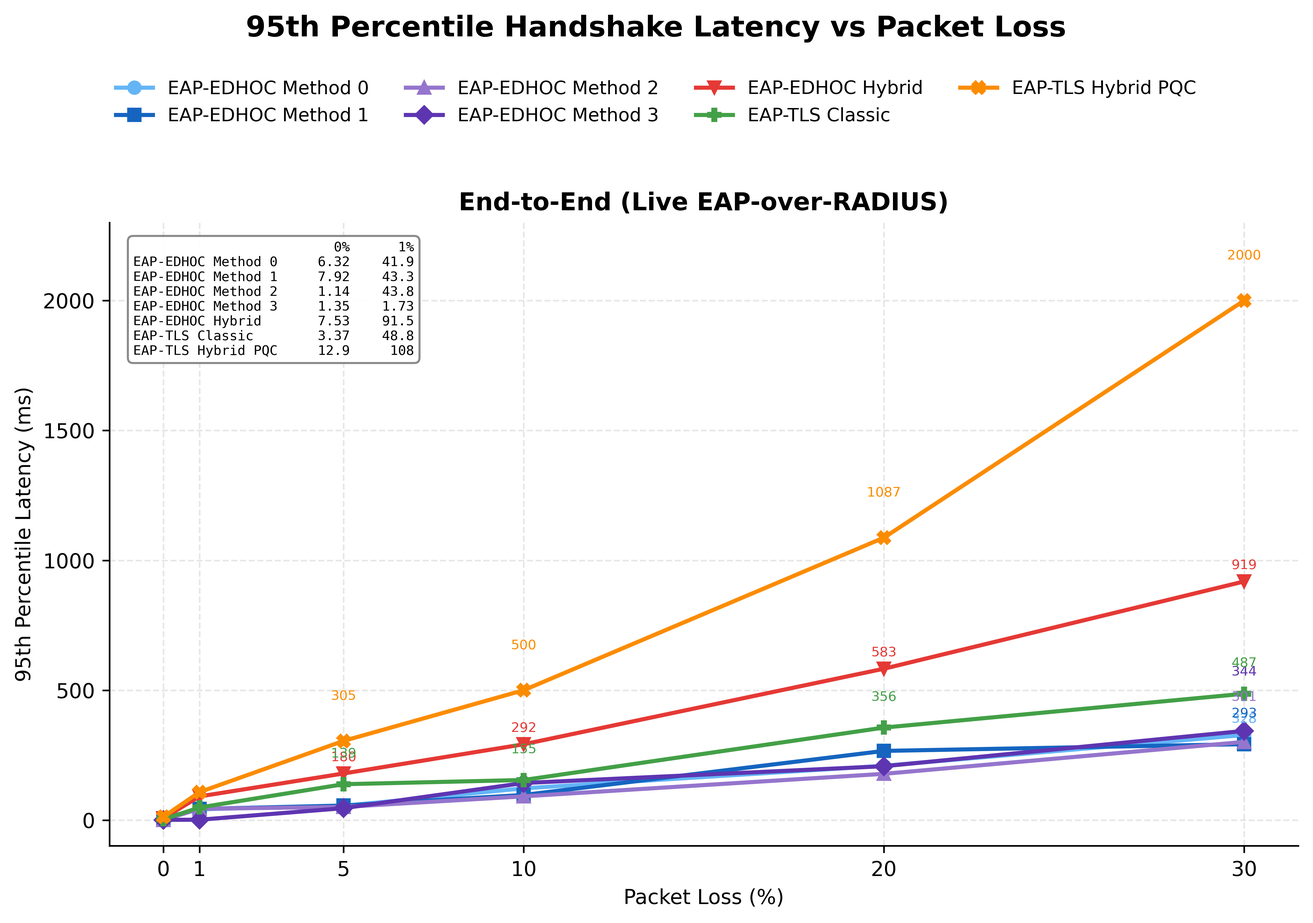
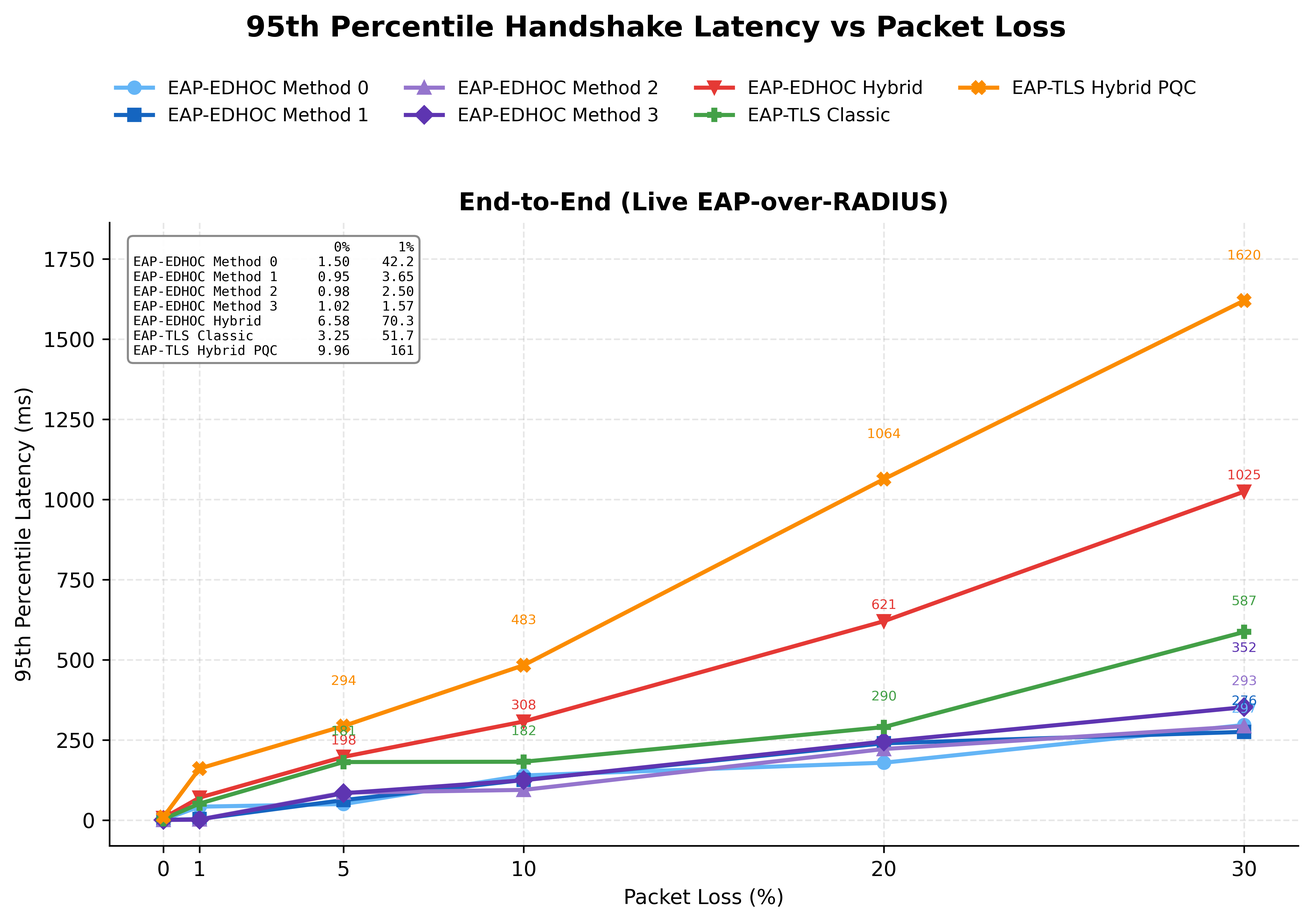
paper/notebook: standard X-Wing, precomputed rotation keys, corrected storage cost
- X-Wing section and Algorithm 1 follow draft-connolly-cfrg-xwing-kem-09
  (SHAKE256 seed expansion, SHA3-256 combiner, test vectors reproduced);
  the next one-time key pair may be generated before the run.
- Computation: 0.869 ms (0.434 per party), now below EAP-TLS Hybrid PQC
  (0.894 ms); in-process 1.167 -> 0.999 ms.
- Live: 6.116 ms mean / 5.752 ms median vs 10.321 / 9.742 ms for
  EAP-TLS Hybrid PQC; RTT table, pair comparison, loss paragraph,
  bootstrap share, discussion and conclusion updated.
- Storage cost corrected from ~0.1 ms to 0.68 ms (interleaved durable vs
  tmpfs); the earlier figure came from non-interleaved runs and strace -c
  CPU time.

diff --git a/symmetry-rev/paper/manuscript.tex b/symmetry-rev/paper/manuscript.tex
@@ -166,7 +166,7 @@ EAP~\cite{RFC3748} defines three roles: the \emph{peer} (the UE), the \emph{auth
 
 \subsection{X-Wing Hybrid KEM}
 \label{sec:prelim-xwing}
-X-Wing~\cite{XWing,XWingDraft} combines X25519 with ML-KEM-768 (FIPS~203)~\cite{FIPS203,CRYSTALS}, following the IETF hybrid terminology~\cite{PQUIP} and the rationale of hybrid KEMs for authenticated key exchange~\cite{BBF+19,TS103744}. The combined secret stays secure as long as \emph{at least one} component is unbroken. Algorithm~\ref{alg:xwing} summarises its three operations. The public key $pk = ek_{\mathrm{PQ}}\,\|\,pk_X$ is $1184+32$ bytes. Encapsulation runs ML-KEM-768 and an ephemeral X25519 exchange and merges both shares with a single SHA3-256 \emph{combiner} that also binds both public shares, which blocks re-encapsulation and mismatch attacks~\cite{CDM24,ADH+22}; decapsulation recomputes the same 32-byte secret.
+X-Wing~\cite{XWing,XWingDraft} combines X25519 with ML-KEM-768 (FIPS~203)~\cite{FIPS203,CRYSTALS}, following the IETF hybrid terminology~\cite{PQUIP} and the rationale of hybrid KEMs for authenticated key exchange~\cite{BBF+19,TS103744}. The combined secret stays secure as long as \emph{at least one} component is unbroken. Algorithm~\ref{alg:xwing} summarises its three operations. The public key $pk = ek_{\mathrm{PQ}}\,\|\,pk_X$ is $1184+32$ bytes. Encapsulation runs ML-KEM-768 and an ephemeral X25519 exchange and merges both shares with a single SHA3-256 \emph{combiner} that also binds both public shares, which blocks re-encapsulation and mismatch attacks~\cite{CDM24,ADH+22}; decapsulation recomputes the same 32-byte secret. We follow the X-Wing specification~\cite{XWingDraft} exactly: the key pair is derived from a 32-byte seed with SHAKE256, and the combiner hashes $ss_{\mathrm{PQ}} \,\|\, ss_{X} \,\|\, pk_{e} \,\|\, pk_{X}$ followed by the 6-byte label \texttt{5c2e2f2f5e5c}. Our implementation reproduces all test vectors of the specification for key generation, encapsulation, and decapsulation. As the specification permits for a key that never leaves its device, each party stores the expanded secret key $dk_{\mathrm{PQ}} \,\|\, sk_X$ and takes $pk_X$ from its own public key during decapsulation instead of recomputing it.
 
 X-Wing is IND-CCA secure under standard assumptions and, by exploiting ML-KEM's ciphertext binding, needs weaker assumptions than generic combiners~\cite{XWing}. Unlike the negotiated combiners of hybrid TLS~1.3~\cite{TLS}, IKEv2~\cite{RFC9370}, or composite ML-KEM~\cite{LAMPS,BBF+19}, it is a fixed instantiation without runtime negotiation, in line with deployed hybrids such as PQXDH~\cite{PQXDH,FG24} and post-quantum Noise~\cite{ADH+22}, and compact enough for COSE/CBOR. Note that a KEM is asymmetric by construction: the encapsulator learns nothing about the decapsulator's long-term key, and only the decapsulator is implicitly authenticated. Section~\ref{sec:symmetry} shows how the protocol compensates for this.
 
@@ -177,7 +177,8 @@ X-Wing is IND-CCA secure under standard assumptions and, by exploiting ML-KEM's 
 {\footnotesize
 \begin{algorithmic}[1]
 \State \textbf{KeyGen():}
-\State \hspace{1em}$(dk_{\mathrm{PQ}}, ek_{\mathrm{PQ}}) \gets \mathsf{ML\text{-}KEM\text{-}768.KeyGen}()$;\ \ $(sk_{X}, pk_{X}) \gets \Xtwofive.\mathsf{KeyGen}()$
+\State \hspace{1em}$seed \gets \mathsf{random}(32)$;\ \ $(d, z, sk_{X}) \gets \mathsf{SHAKE256}(seed, 96)$
+\State \hspace{1em}$(dk_{\mathrm{PQ}}, ek_{\mathrm{PQ}}) \gets \mathsf{ML\text{-}KEM\text{-}768.KeyGen\_internal}(d, z)$;\ \ $pk_{X} \gets \Xtwofive(sk_{X}, \mathsf{base})$
 \State \hspace{1em}\Return $pk \gets ek_{\mathrm{PQ}} \,\|\, pk_{X}$ \ ($1184 + 32 = 1216$ bytes),\ \ $sk \gets dk_{\mathrm{PQ}} \,\|\, sk_{X}$
 \State \textbf{Encaps($pk = ek_{\mathrm{PQ}} \,\|\, pk_{X}$):}
 \State \hspace{1em}$(ss_{\mathrm{PQ}}, ct_{\mathrm{PQ}}) \gets \mathsf{ML\text{-}KEM\text{-}768.Encaps}(ek_{\mathrm{PQ}})$;\ \ $(sk_{e}, pk_{e}) \gets \Xtwofive.\mathsf{KeyGen}()$
@@ -198,7 +199,7 @@ X-Wing is IND-CCA secure under standard assumptions and, by exploiting ML-KEM's 
 \subsection{Assumptions and Design Rationale}
 In a provisioning phase (Algorithm~\ref{alg:longterm-keygen}), the UE (Initiator) and the DN-AAA (Responder) each generate a long-term X-Wing key pair and a long-term ML-DSA-44 signing key, and each holds the peer's long-term X-Wing public key. The peer's verification key ($VK_R$, $VK_I$) is conveyed in \texttt{Plaintext2}/\texttt{Plaintext3} and bound to the transcript by the corresponding signature. EAP-EDHOC messages are carried over EAP~\cite{RFC3748} and RADIUS~\cite{RFC2865,RFC3579} between the pass-through authenticator (SMF/UPF) and the DN-AAA, following TS~33.501~\cite{TS33501}. The Dolev--Yao adversary~\cite{DolevYao1983} controls the network.
 
-The X-Wing static keys are \emph{one-time} keys. Each party generates its next key pair during a run, announces the public key in $\mathit{EAD}_3$ or $\mathit{EAD}_4$, and erases the old secret key once the run completes, so every static key pair serves exactly one session. The DN-AAA therefore keeps one record per UE, holding $(sk_{\mathsf{B}}, pk_{\mathsf{B}})$ for that UE together with $(pk_{\mathsf{A}}, VK_I)$. The DN-AAA selects this record from the EAP identity of the session, which reaches it in the RADIUS Access-Request before \texttt{Message1}, so no extra field is added to the EDHOC messages. Each party keeps its record in a preallocated two-slot file; a commit writes the inactive slot and issues a single \texttt{fdatasync}, so the previous slot serves as the grace key and is overwritten by the next commit. The DN-AAA commits before it sends \texttt{Message4} (write-ahead), so a crash cannot leave it behind the UE; the UE commits after EAP-Success and then zeroes its previous slot, since it needs the new key only from the next session on.
+The X-Wing static keys are \emph{one-time} keys. Each party generates its next key pair, announces the public key in $\mathit{EAD}_3$ or $\mathit{EAD}_4$, and erases the old secret key once the run completes, so every static key pair serves exactly one session. The next key pair does not depend on the session, so it can be generated before the run that announces it; our implementation does this outside the handshake (Section~\ref{sec:performance}). The DN-AAA therefore keeps one record per UE, holding $(sk_{\mathsf{B}}, pk_{\mathsf{B}})$ for that UE together with $(pk_{\mathsf{A}}, VK_I)$. The DN-AAA selects this record from the EAP identity of the session, which reaches it in the RADIUS Access-Request before \texttt{Message1}, so no extra field is added to the EDHOC messages. Each party keeps its record in a preallocated two-slot file; a commit writes the inactive slot and issues a single \texttt{fdatasync}, so the previous slot serves as the grace key and is overwritten by the next commit. The DN-AAA commits before it sends \texttt{Message4} (write-ahead), so a crash cannot leave it behind the UE; the UE commits after EAP-Success and then zeroes its previous slot, since it needs the new key only from the next session on.
 
 The protocol follows the SIGMA (SIGn-and-MAc) design~\cite{Kra03}: X-Wing provides confidentiality and key agreement, while detached ML-DSA-44 signatures~\cite{FIPS204} are the sole source of entity authentication. Because the signing keys are independent of the X-Wing static keys, leaking a KEM static key does not enable impersonation; this closes the KCI gap of a MAC-only Method~4 variant~\cite{GM23,CDM24}. We choose ML-DSA-44 (NIST category~2) rather than ML-DSA-65 to limit fragmentation: its $1312$-byte key and $2420$-byte signature are markedly smaller, and its margin still exceeds that of the Ed25519 signatures of T0--T3. Being nominally below the category-3 strength of ML-KEM-768, this is a deliberate size/security trade-off.
 
@@ -297,7 +298,7 @@ Figure~\ref{fig:proto-edhoc} shows the exchange inside the 3GPP secondary-authen
 \State \textbf{if either check fails:} \textbf{abort}
 \State $TH_3 \gets H(TH_2, \mathsf{Plaintext2})$
 \State $PRK_{4e3m} \gets PRK_{3e2m}$ \Comment{$ss_{\mathsf{A}}$ already entered at $PRK_{2e}$}
-\State $(\mathit{Nsk}_{\mathsf{A}}, \mathit{Npk}_{\mathsf{A}}) \gets \XWING.\mathsf{KeyGen}()$;\ \ $\mathit{EAD}_3 \gets \mathit{Npk}_{\mathsf{A}}$
+\State $(\mathit{Nsk}_{\mathsf{A}}, \mathit{Npk}_{\mathsf{A}}) \gets \XWING.\mathsf{KeyGen}()$;\ \ $\mathit{EAD}_3 \gets \mathit{Npk}_{\mathsf{A}}$ \Comment{may be precomputed}
 \State $\mathit{MAC}_3 \gets \mathsf{HKDF\text{-}Expand}(PRK_{4e3m}, TH_3, \mathit{ID\_CRED}_I, \mathit{EAD}_3, \mathit{Len}_3)$
 \State $\sigma_I \gets \mathsf{ML\text{-}DSA.Sign}\big(sk_{\mathsf{SIG,I}},\ TH_3 \,\|\, \mathit{ID\_CRED}_I \,\|\, \mathit{MAC}_3\big)$ \Comment{\textbf{independent of $sk_{\mathsf{A}}$}}
 \State $K_3 \gets \mathsf{HKDF\text{-}Expand}(PRK_{3e2m}, TH_3)$
@@ -326,7 +327,7 @@ Figure~\ref{fig:proto-edhoc} shows the exchange inside the 3GPP secondary-authen
 \State \textbf{Verify} $\mathsf{ML\text{-}DSA.Verify}\big(VK_I,\ TH_3 \,\|\, \mathit{ID\_CRED}_I \,\|\, \mathit{MAC}_3,\ \sigma_I\big) \overset{?}{=} \mathtt{valid}$ \Comment{\textbf{auth gate}}
 \State \textbf{if either check fails:} \textbf{abort}
 \State $PRK_{\mathsf{out}} \gets \mathsf{HKDF\text{-}Expand}(PRK_{4e3m}, TH_4)$;\ \ $AK \gets \mathsf{HKDF\text{-}Expand}(PRK_{\mathsf{out}})$
-\State $(\mathit{Nsk}_{\mathsf{B}}, \mathit{Npk}_{\mathsf{B}}) \gets \XWING.\mathsf{KeyGen}()$;\ \ $\mathit{EAD}_4 \gets \mathit{Npk}_{\mathsf{B}}$
+\State $(\mathit{Nsk}_{\mathsf{B}}, \mathit{Npk}_{\mathsf{B}}) \gets \XWING.\mathsf{KeyGen}()$;\ \ $\mathit{EAD}_4 \gets \mathit{Npk}_{\mathsf{B}}$ \Comment{may be precomputed}
 \State $pk_{\mathsf{A}} \gets \mathit{EAD}_3$ \Comment{update next key of UE}
 \State $(pk_{\mathsf{B}}, sk_{\mathsf{B}}) \gets (\mathit{Npk}_{\mathsf{B}}, \mathit{Nsk}_{\mathsf{B}})$;\ \ \textbf{erase} the old $sk_{\mathsf{B}}$ \Comment{forward secrecy}
 \State $\mathsf{Plaintext4} \gets \mathit{EAD}_4$;\ \ $K_4 \gets \mathsf{HKDF\text{-}Expand}(PRK_{4e3m}, TH_4)$
@@ -517,7 +518,7 @@ Experiments ran on a Windows 11 Pro host (Intel Core i9-14900K, 64\,GB DDR5) in 
 
 During the preparation of this manuscript, the authors used Claude (Anthropic; model claude-opus-5-5) to convert the manuscript to the journal template and to condense and restructure the text; the tool was not used to generate data, results, or analyses. The authors reviewed and edited the output and take full responsibility for the content of this publication.
 
-Table~\ref{tab:primitive} lists primitive costs over $3000$ iterations. The most expensive operation, ML-DSA-44 signing, averages $0.223$~ms, and all ML-KEM-768 operations stay below $0.05$~ms. Per handshake, the proposed method costs $0.985$~ms, split exactly evenly between the initiator and the responder ($0.492$~ms each): apart from generating its next key pair, each party performs exactly one X-Wing encapsulation and one decapsulation, one signature and one verification, so the two parties run mirror-image operation sets. The classical methods 0--3 cost $0.152$--$0.182$~ms, and EAP-TLS Classic and Hybrid PQC $0.241$~ms and $0.894$~ms. The EAP-TLS figures include, besides the \texttt{CertificateVerify} signature, the verification of the CA signature on the peer's end-entity certificate that each side performs (the chain has no intermediate CA; the CA signs with Ed25519 and ML-DSA-44, respectively), whereas EAP-EDHOC uses provisioned verification keys and verifies no certificate. PQC thus multiplies computation by about $5$--$6.5\times$ for EAP-EDHOC and $3.7\times$ for EAP-TLS, yet the absolute cost stays below $1$~ms. Figures~\ref{fig:handshake_computation_grouped} and~\ref{fig:communication_breakdown_methods} break down computation and communication for all seven methods.
+Table~\ref{tab:primitive} lists primitive costs over $3000$ iterations. The most expensive operation, ML-DSA-44 signing, averages $0.223$~ms, and all ML-KEM-768 operations stay below $0.05$~ms. Per handshake, the proposed method costs $0.869$~ms, split exactly evenly between the initiator and the responder ($0.434$~ms each): each party performs exactly one X-Wing encapsulation and one decapsulation, one signature and one verification, so the two parties run mirror-image operation sets. Its next one-time key pair does not depend on the session, so each party generates it outside the handshake (the UE after its commit, the DN-AAA from a pool refilled by a background thread); counted inside the handshake, as in our earlier implementation, it would add one X-Wing key generation per party ($0.058$~ms). Measured in process over $5\times2{,}000$ handshakes, including the key schedule, AEAD, and serialisation, the two parties together spend $1.167$~ms before and $0.999$~ms after these changes ($-14\%$): $0.048$~ms from the X-Wing changes, mainly a decapsulation that takes $pk_X$ from the stored public key, and $0.119$~ms from generating the next key pair outside the handshake. The classical methods 0--3 cost $0.152$--$0.182$~ms, and EAP-TLS Classic and Hybrid PQC $0.241$~ms and $0.894$~ms. The EAP-TLS figures include, besides the \texttt{CertificateVerify} signature, the verification of the CA signature on the peer's end-entity certificate that each side performs (the chain has no intermediate CA; the CA signs with Ed25519 and ML-DSA-44, respectively), whereas EAP-EDHOC uses provisioned verification keys and verifies no certificate. PQC thus multiplies computation by about $4.8$--$5.7\times$ for EAP-EDHOC and $3.7\times$ for EAP-TLS, yet the absolute cost stays below $1$~ms, and the proposal now computes less than EAP-TLS Hybrid PQC. Figures~\ref{fig:handshake_computation_grouped} and~\ref{fig:communication_breakdown_methods} break down computation and communication for all seven methods.
 
 \begin{table}[H]
 \caption{Mean latency of cryptographic primitives (3000 iterations).\label{tab:primitive}}
@@ -561,11 +562,11 @@ Verify\_MLDSA44     & 0.059596 & 0.028310 & 0.001013 \\
 \end{figure}
 
 \subsection{End-to-End Latency, Message Size, and Framing}
-Over the live EAP-over-RADIUS path ($100$ iterations per method, no loss), the proposed method completes in $5.570$~ms on average (median $5.704$~ms), against $0.981$--$1.158$~ms for methods 0--3 (medians $0.953$--$1.099$~ms; a pooled run of $10{,}000$ handshakes per method in two opposite orders on the same idle machine gives medians of $1.021$--$1.039$~ms, which we consider the more reliable estimate), $3.147$~ms for EAP-TLS Classic, and $9.319$~ms for EAP-TLS Hybrid PQC. Each method was preceded by $20$ discarded warm-up handshakes. Two costs separate the proposal from methods 0--3, and neither is computation. The first is fragmentation: the proposal needs $14$ RADIUS round-trips versus $3$ for methods 0--3, and EAP-TLS Classic and Hybrid PQC need $6$ and $28$. The second is durable key rotation. With the two-slot records, tracing $20$ handshakes with \texttt{strace} gives one \texttt{fdatasync} per handshake on the DN-AAA, issued before \texttt{Message4} ($153$~\textmu s on average), and one on the UE after EAP-Success ($50$~\textmu s), which lies outside the measured handshake time; the UE's whole commit takes $0.573$~ms. Our first implementation stored each key in its own file (write, \texttt{fsync}, atomic rename) and erased old keys with separate flushes, four \texttt{fsync} and two \texttt{fdatasync} calls per handshake, which added $7.9$~ms on the virtual disk of our VM ($13.223$~ms against $5.314$~ms with the key directories on a RAM-backed \texttt{tmpfs}). With the two-slot records the same comparison gives medians of $5.704$ and $5.614$~ms, so the remaining storage cost is about $0.1$~ms, within the run-to-run variation of our testbed (the \texttt{tmpfs} run had outliers, so we compare medians). Storage with a power-loss-protected write cache completes a flush faster than our virtual disk, so this share is specific to the testbed.
+Over the live EAP-over-RADIUS path ($200$ iterations per method in two runs, no loss), the proposed method completes in $6.116$~ms on average (median $5.752$~ms), against $1.079$--$1.152$~ms for methods 0--3 (medians $0.972$--$1.038$~ms; a pooled run of $10{,}000$ handshakes per method in two opposite orders on the same idle machine gives medians of $1.021$--$1.039$~ms, which we consider the more reliable estimate), $3.289$~ms for EAP-TLS Classic (median $2.968$~ms), and $10.321$~ms for EAP-TLS Hybrid PQC (median $9.742$~ms). Each run of a method was preceded by $20$ discarded warm-up handshakes. Two costs separate the proposal from methods 0--3, and neither is computation. The first is fragmentation: the proposal needs $14$ RADIUS round-trips versus $3$ for methods 0--3, and EAP-TLS Classic and Hybrid PQC need $6$ and $28$. The second is durable key rotation. With the two-slot records, tracing $20$ handshakes with \texttt{strace} gives one \texttt{fdatasync} per handshake on the DN-AAA, issued before \texttt{Message4}, and one on the UE after EAP-Success, which lies outside the measured handshake time (the UE's whole commit takes $0.605$~ms on average). On the virtual disk of our VM a single \texttt{fdatasync} takes about $0.7$--$1$~ms of wall-clock time. To isolate this cost, we ran the proposal in $6$ alternating rounds of $100$ handshakes with the key directories on the VM disk and on a RAM-backed \texttt{tmpfs}, where a flush is almost free: the medians are $5.789$ and $5.107$~ms, so durable storage costs $0.68$~ms (bootstrap $95\%$ interval $[0.56, 0.77]$~ms), essentially the one flush of the DN-AAA. Our first implementation stored each key in its own file (write, \texttt{fsync}, atomic rename) and erased old keys with separate flushes, four \texttt{fsync} and two \texttt{fdatasync} calls per handshake, which added $7.9$~ms ($13.223$~ms against $5.314$~ms on \texttt{tmpfs}). Storage with a power-loss-protected write cache completes a flush much faster than our virtual disk, so this share is specific to the testbed. Generating the next key pair outside the handshake removes about $0.12$~ms from the live median ($6.139$ vs.\ $6.016$~ms in $8$ alternating rounds of $100$ handshakes; bootstrap $95\%$ interval $[-0.03, 0.22]$~ms), the same order as the run-to-run variation of our testbed.
 
 The message sizes explain this. Classical messages fit in one EAP fragment ($34$--$147$~bytes). In the proposed method, each X-Wing element adds $1.1$--$1.2$~KB and each ML-DSA-44 signature about $2.4$~KB. \texttt{Message1} ($1{,}141$~B: $ct_B$ and the encrypted \texttt{Plaintext1}) now fits within the $1500$-byte MTU, whereas \texttt{Message2} ($4{,}880$~B) and \texttt{Message3} ($4{,}975$~B) exceed it and are split into EAP fragments (RFC~3579, 253-byte attributes)~\cite{RFC3579} and IP fragments; \texttt{Message4} ($1{,}232$~B) fits in one. The handshake totals $12{,}228$~B. The load per direction is balanced: the UE sends $6{,}116$~B (\texttt{Message1}+\texttt{Message3}) and the DN-AAA $6{,}112$~B (\texttt{Message2}+\texttt{Message4}). EAP-TLS Classic totals $2{,}478$~B in $5$ EAP fragments and EAP-TLS Hybrid PQC $25{,}195$~B in $27$, the most of any method. Cross-implementation checks against pyca/cryptography over OpenSSL passed all $11$ tests, with sizes matching the standards (ML-KEM-768 public key $1184$~B, ciphertext $1088$~B; ML-DSA-44 key $1312$~B, signature $2420$~B).
 
-Because all components share one VM, the round-trip time (RTT) between the SMF and the DN-AAA is close to zero, which understates the cost of fragmentation. Table~\ref{tab:rtt-projection} projects the measured loss-free means to a non-zero RTT with $T(\mathrm{RTT}) \approx T_{\mathrm{loopback}} + n_{\mathrm{RT}}\cdot \mathrm{RTT}$, where $n_{\mathrm{RT}}$ is the measured number of RADIUS round-trips. Since the proposal is already faster than EAP-TLS Hybrid PQC on loopback and needs half its round-trips, it is faster at every RTT, and the gap grows with the RTT: $1.7\times$ at $0$~ms and $2.0\times$ at $10$~ms ($146$ vs.\ $289$~ms).
+Because all components share one VM, the round-trip time (RTT) between the SMF and the DN-AAA is close to zero, which understates the cost of fragmentation. Table~\ref{tab:rtt-projection} projects the measured loss-free means to a non-zero RTT with $T(\mathrm{RTT}) \approx T_{\mathrm{loopback}} + n_{\mathrm{RT}}\cdot \mathrm{RTT}$, where $n_{\mathrm{RT}}$ is the measured number of RADIUS round-trips. Since the proposal is already faster than EAP-TLS Hybrid PQC on loopback and needs half its round-trips, it is faster at every RTT, and the gap grows with the RTT: $1.7\times$ at $0$~ms and $2.0\times$ at $10$~ms ($146$ vs.\ $290$~ms).
 
 \begin{table}[H]
 \caption{Loss-free handshake time projected to a non-zero SMF--DN-AAA round-trip time, $T_{\mathrm{loopback}} + n_{\mathrm{RT}}\cdot\mathrm{RTT}$ (ms), from the measured means and round-trip counts. For Methods 0--3, $T_{\mathrm{loopback}}$ is the median of the pooled $10{,}000$-handshake runs.\label{tab:rtt-projection}}
@@ -575,17 +576,17 @@ Because all components share one VM, the round-trip time (RTT) between the SMF a
 \textbf{Method} & $\boldsymbol{n_{\mathrm{RT}}}$ & \textbf{0~ms} & \textbf{1~ms} & \textbf{5~ms} & \textbf{10~ms} & \textbf{20~ms} \\
 \midrule
 EAP-EDHOC Methods 0--3 (median) & 3  & 1.0 & 4.0 & 16.0 & 31.0 & 61.0 \\
-EAP-TLS Classic                 & 6  & 3.1 & 9.1 & 33.1 & 63.1 & 123.1 \\
-Proposal (durable key storage)  & 14 & 5.6 & 19.6 & 75.6 & 145.6 & 285.6 \\
-EAP-TLS Hybrid PQC              & 28 & 9.3 & 37.3 & 149.3 & 289.3 & 569.3 \\
+EAP-TLS Classic                 & 6  & 3.3 & 9.3 & 33.3 & 63.3 & 123.3 \\
+Proposal (durable key storage)  & 14 & 6.1 & 20.1 & 76.1 & 146.1 & 286.1 \\
+EAP-TLS Hybrid PQC              & 28 & 10.3 & 38.3 & 150.3 & 290.3 & 570.3 \\
 \bottomrule
 \end{tabular*}
 \end{table}
 
-The two panels of Figure~\ref{fig:handshake_computation_grouped} rank the methods differently, so we compare each EAP-EDHOC variant with the EAP-TLS baseline at the same security level. \emph{Classical pair} (Methods 0--3 vs.\ EAP-TLS Classic, both Ed25519 and X25519): EAP-EDHOC computes less ($0.152$--$0.182$~ms vs.\ $0.241$~ms), because each EAP-TLS party also verifies the CA signature on the peer's certificate (we used Ed25519 certificates instead of RSA-2048 so that both sides of the pair use the same primitives), and EAP-EDHOC sends $8$--$13\times$ fewer bytes ($184$--$296$~B vs.\ $2{,}478$~B), needs half the round-trips ($3$ vs.\ $6$), and is $2.8$--$3.3\times$ faster end to end in the median ($0.953$--$1.099$~ms vs.\ $3.132$~ms). \emph{Hybrid PQC pair} (the proposal vs.\ EAP-TLS Hybrid PQC, both X25519+ML-KEM-768 and ML-DSA-44): the proposal computes more ($0.985$ vs.\ $0.894$~ms) because it runs an X-Wing encapsulation in both directions and generates its rotated key pair in every run, which outweighs the certificate-signature verification that EAP-TLS adds on each side. However, EAP-TLS carries ML-DSA-44 inside an X.509 chain in a TLS record whereas EAP-EDHOC carries a compact detached CBOR/COSE value, so the proposal again sends half the bytes and needs half the round-trips ($12{,}228$~B and $14$ vs.\ $25{,}195$~B and $28$). It is also faster end to end even on loopback ($5.570$ vs.\ $9.319$~ms mean, $5.704$ vs.\ $9.306$~ms median), although it stores its rotated keys durably in every run and EAP-TLS stores none: one \texttt{fdatasync} per handshake on the DN-AAA costs far less than the $14$ round-trips it saves. The \texttt{tmpfs} figure is only a reference point, since \texttt{tmpfs} is not crash-safe and the protocol's forward secrecy relies on durable rotation. Across both pairs, EDHOC's compact encoding, not its primitives, keeps its transport cost below EAP-TLS.
+The two panels of Figure~\ref{fig:handshake_computation_grouped} rank the methods differently, so we compare each EAP-EDHOC variant with the EAP-TLS baseline at the same security level. \emph{Classical pair} (Methods 0--3 vs.\ EAP-TLS Classic, both Ed25519 and X25519): EAP-EDHOC computes less ($0.152$--$0.182$~ms vs.\ $0.241$~ms), because each EAP-TLS party also verifies the CA signature on the peer's certificate (we used Ed25519 certificates instead of RSA-2048 so that both sides of the pair use the same primitives), and EAP-EDHOC sends $8$--$13\times$ fewer bytes ($184$--$296$~B vs.\ $2{,}478$~B), needs half the round-trips ($3$ vs.\ $6$), and is $2.9$--$3.1\times$ faster end to end in the median ($0.972$--$1.038$~ms vs.\ $2.968$~ms). \emph{Hybrid PQC pair} (the proposal vs.\ EAP-TLS Hybrid PQC, both X25519+ML-KEM-768 and ML-DSA-44): the proposal computes slightly less ($0.869$ vs.\ $0.894$~ms): it runs an X-Wing encapsulation in both directions, one more encapsulation and decapsulation than the single key exchange of TLS, but generates its next key pair outside the handshake and verifies no certificate. Moreover, EAP-TLS carries ML-DSA-44 inside an X.509 chain in a TLS record whereas EAP-EDHOC carries a compact detached CBOR/COSE value, so the proposal again sends half the bytes and needs half the round-trips ($12{,}228$~B and $14$ vs.\ $25{,}195$~B and $28$). It is also faster end to end even on loopback ($6.116$ vs.\ $10.321$~ms mean, $5.752$ vs.\ $9.742$~ms median), although it stores its rotated keys durably in every run and EAP-TLS stores none: one \texttt{fdatasync} per handshake on the DN-AAA ($0.68$~ms on our VM) costs far less than the $14$ round-trips it saves. The \texttt{tmpfs} figure is only a reference point, since \texttt{tmpfs} is not crash-safe and the protocol's forward secrecy relies on durable rotation. Across both pairs, EDHOC's compact encoding, not its primitives, keeps its transport cost below EAP-TLS.
 
 \subsection{Behaviour under Packet Loss}
-Figures~\ref{fig:loss_mean} and~\ref{fig:loss_tail} report behaviour under emulated application-level loss with EAP-style retransmission (RTO 40~ms, up to 6 retransmissions per exchange, $120$ trials per cell) for all seven methods. Methods 0--3 keep a $100\%$ success rate up to $10\%$ loss, reach $99.2$--$100\%$ at $20\%$ and $95.8$--$99.2\%$ at $30\%$. EAP-TLS Classic reaches $99.2\%$ at both $20\%$ and $30\%$ loss, and EAP-TLS Hybrid PQC $97.5\%$ and $85.0\%$. The proposal reaches $99.2\%$ at $20\%$ loss (mean $307.1$~ms, $7.0$ retransmissions) and $88.3\%$ at $30\%$ (mean $575.3$~ms, $11.5$ retransmissions averaged over all trials), between the two EAP-TLS baselines at $30\%$, in line with its $14$ EAP fragments against their $5$ and $27$. With $120$ trials per cell the success rates carry Wilson $95\%$ intervals of about $\pm6$ points (e.g., $[81.4, 92.9]\%$ for the proposal and $[77.5, 90.3]\%$ for EAP-TLS Hybrid PQC at $30\%$ loss), so the two success rates are not distinguishable, and we read them together with a simple model: if one round-trip succeeds with probability $p=(1-L)^2$ and an exchange fails after $7$ attempts, a handshake with $n_{\mathrm{RT}}$ round-trips succeeds with probability $(1-(1-p)^7)^{n_{\mathrm{RT}}}$. At $30\%$ loss this predicts $88.1\%$ for the proposal and $77.7\%$ for EAP-TLS Hybrid PQC, against the measured $88.3\%$ and $85.0\%$ (the latter within, but near the edge of, its interval), and about $14.6$ and $29.1$ retransmissions per successful handshake (measured: $13.0$ and $28.3$ among successful handshakes) at $40$~ms each ($\approx583$ and $1{,}166$~ms against the measured $575$ and $1{,}326$~ms). The loss behaviour is therefore governed by the number of round-trips, and the clearest difference is latency rather than success rate. Within each security level EAP-EDHOC is the more loss-tolerant: at $30\%$ loss, Methods 0--3 average $118$--$132$~ms against $265$~ms for EAP-TLS Classic, and the proposal $575$~ms against $1{,}326$~ms for EAP-TLS Hybrid PQC. The proposal is faster than EAP-TLS Hybrid PQC at every loss level, and the gap widens with loss ($22.4$ vs.\ $35.0$~ms at $1\%$, $72.6$ vs.\ $152.4$~ms at $5\%$). A lost \texttt{Message4} is recovered through the DN-AAA's grace key: in a separate run of $150$ handshakes at $20\%$ loss, two sessions completed with the retained old key (a lost \texttt{Message4} or EAP-Success leaves the UE on its old key), and all $30$ subsequent handshakes succeeded without re-provisioning. Each extra fragment is an independent chance of loss, so latency and retransmissions grow with fragment count. Fragmentation, not computation, is the main scalability concern.
+Figures~\ref{fig:loss_mean} and~\ref{fig:loss_tail} report behaviour under emulated application-level loss with EAP-style retransmission (RTO 40~ms, up to 6 retransmissions per exchange, $120$ trials per cell) for all seven methods. Methods 0--3 keep a $100\%$ success rate up to $10\%$ loss, reach $99.2$--$100\%$ at $20\%$ and $96.7$--$99.2\%$ at $30\%$. EAP-TLS Classic reaches $99.2\%$ at $20\%$ and $95.8\%$ at $30\%$ loss, and EAP-TLS Hybrid PQC $96.7\%$ and $78.3\%$. The proposal reaches $100\%$ at $20\%$ loss (mean $364.0$~ms, $8.3$ retransmissions) and $90.0\%$ at $30\%$ (mean $603.3$~ms, $12.0$ retransmissions averaged over all trials), between the two EAP-TLS baselines at $30\%$, in line with its $14$ EAP fragments against their $5$ and $27$. With $120$ trials per cell the success rates carry Wilson $95\%$ intervals of about $\pm6$ points (e.g., $[83.3, 94.2]\%$ for the proposal and $[70.1, 84.8]\%$ for EAP-TLS Hybrid PQC at $30\%$ loss), so the two success rates are barely distinguishable, and we read them together with a simple model: if one round-trip succeeds with probability $p=(1-L)^2$ and an exchange fails after $7$ attempts, a handshake with $n_{\mathrm{RT}}$ round-trips succeeds with probability $(1-(1-p)^7)^{n_{\mathrm{RT}}}$. At $30\%$ loss this predicts $88.1\%$ for the proposal and $77.7\%$ for EAP-TLS Hybrid PQC, against the measured $90.0\%$ and $78.3\%$, and about $14.6$ and $29.1$ retransmissions per successful handshake (measured: $13.3$ and $27.2$ among successful handshakes) at $40$~ms each ($\approx583$ and $1{,}166$~ms against the measured $603$ and $1{,}179$~ms). The loss behaviour is therefore governed by the number of round-trips, and the clearest difference is latency rather than success rate. Within each security level EAP-EDHOC is the more loss-tolerant: at $30\%$ loss, Methods 0--3 average $127$--$138$~ms against $297$~ms for EAP-TLS Classic, and the proposal $603$~ms against $1{,}179$~ms for EAP-TLS Hybrid PQC. The proposal is faster than EAP-TLS Hybrid PQC at every loss level, and the absolute gap widens with loss ($17.7$ vs.\ $50.2$~ms at $1\%$, $79.3$ vs.\ $145.6$~ms at $5\%$). A lost \texttt{Message4} is recovered through the DN-AAA's grace key: in a separate run of $150$ handshakes at $20\%$ loss, two sessions completed with the retained old key (a lost \texttt{Message4} or EAP-Success leaves the UE on its old key), and all $30$ subsequent handshakes succeeded without re-provisioning. Each extra fragment is an independent chance of loss, so latency and retransmissions grow with fragment count. Fragmentation, not computation, is the main scalability concern.
 
 \begin{figure}[H]
 \begin{adjustwidth}{-\extralength}{0cm}
@@ -609,7 +610,7 @@ Figures~\ref{fig:loss_mean} and~\ref{fig:loss_tail} report behaviour under emula
 
 \subsection{EMSK Key-Bootstrapping Cost}
 \label{sec:perf-bootstrap}
-Every primitive in the bootstrapping chain is inexpensive (Figure~\ref{fig:bootstrap_cost}a), ranging from $0.0012$~ms (OSCORE Master Salt derivation) to $0.0076$~ms (OSCORE Protect, AES-CCM). Of the loss-free end-to-end bootstrap latency of $0.4183$~ms (Figure~\ref{fig:bootstrap_cost}b), only $0.0337$~ms is spent on the four derivation steps (USRK+DSRK on the UE and AAA sides, OSCORE context on the UE and AS sides); the remaining $0.3846$~ms is network overhead on the two new legs, AAA$\to$AS (DSRK transport) and UE$\to$AS (first OSCORE contact). The single-core throughput bound (Figure~\ref{fig:bootstrap_scale}a) is $194{,}481$ sessions/s ($5.142$~\textmu s/session) on the AAA side and $106{,}182$ sessions/s ($9.418$~\textmu s/session) on the AS side, so bootstrapping does not shift the bottleneck away from the AAA server. At $0.42$~ms ($7.5\%$ of the handshake), bootstrapping is far cheaper than the handshake ($5.570$~ms) and far below the $2$--$10$~s typically reported for a manual OAuth~2.0 authorization-code login, at least $4{,}700\times$ faster than the $2$~s lower bound (Figure~\ref{fig:bootstrap_scale}b).
+Every primitive in the bootstrapping chain is inexpensive (Figure~\ref{fig:bootstrap_cost}a), ranging from $0.0012$~ms (OSCORE Master Salt derivation) to $0.0076$~ms (OSCORE Protect, AES-CCM). Of the loss-free end-to-end bootstrap latency of $0.4183$~ms (Figure~\ref{fig:bootstrap_cost}b), only $0.0337$~ms is spent on the four derivation steps (USRK+DSRK on the UE and AAA sides, OSCORE context on the UE and AS sides); the remaining $0.3846$~ms is network overhead on the two new legs, AAA$\to$AS (DSRK transport) and UE$\to$AS (first OSCORE contact). The single-core throughput bound (Figure~\ref{fig:bootstrap_scale}a) is $194{,}481$ sessions/s ($5.142$~\textmu s/session) on the AAA side and $106{,}182$ sessions/s ($9.418$~\textmu s/session) on the AS side, so bootstrapping does not shift the bottleneck away from the AAA server. At $0.42$~ms ($6.8\%$ of the handshake), bootstrapping is far cheaper than the handshake ($6.116$~ms) and far below the $2$--$10$~s typically reported for a manual OAuth~2.0 authorization-code login, at least $4{,}700\times$ faster than the $2$~s lower bound (Figure~\ref{fig:bootstrap_scale}b).
 
 \begin{figure}[H]
 \centering
@@ -633,20 +634,20 @@ Two implementation notes apply. The label \texttt{"dsrk@ietf.org"} is the reserv
 \section{Discussion}
 \label{sec:discussion}
 
-\textbf{Symmetric guarantees, asymmetric costs.} The results show two distinct symmetry structures. In the \emph{security} dimension the protocol is role-symmetric: both parties are authenticated by independent signatures, both are KCI-resistant, both rotate and erase their one-time keys, and both the computation ($0.492$~ms per party) and the traffic per direction ($6{,}116$ vs.\ $6{,}112$~B) are balanced. In the \emph{cost} dimension it is strongly asymmetric: computation ($0.985$~ms) is under $18\%$ of the $5.570$~ms handshake, and most of the rest is fragmentation over $14$ RADIUS round-trips; with two-slot records, durable storage of the rotated keys costs one \texttt{fdatasync} per handshake on the DN-AAA, about $0.1$~ms on our VM. This decomposition is actionable. Faster PQC primitives would barely change end-to-end latency, whereas the transport cost can be cut today by raising the EAP fragment size or the RADIUS/MTU budget on the SMF--DN-AAA path, without touching the verified cryptography; the storage cost has already been reduced in this way, from $7.9$~ms to about $0.1$~ms, by keeping each key record in a single two-slot file.
+\textbf{Symmetric guarantees, asymmetric costs.} The results show two distinct symmetry structures. In the \emph{security} dimension the protocol is role-symmetric: both parties are authenticated by independent signatures, both are KCI-resistant, both rotate and erase their one-time keys, and both the computation ($0.434$~ms per party) and the traffic per direction ($6{,}116$ vs.\ $6{,}112$~B) are balanced. In the \emph{cost} dimension it is strongly asymmetric: computation ($0.869$~ms) is under $15\%$ of the $6.116$~ms handshake, and most of the rest is fragmentation over $14$ RADIUS round-trips; with two-slot records, durable storage of the rotated keys costs one \texttt{fdatasync} per handshake on the DN-AAA, about $0.7$~ms on the virtual disk of our VM. This decomposition is actionable. Faster PQC primitives would barely change end-to-end latency, whereas the transport cost can be cut today by raising the EAP fragment size or the RADIUS/MTU budget on the SMF--DN-AAA path, without touching the verified cryptography; the storage cost has already been reduced in this way, from $7.9$~ms to about $0.7$~ms, by keeping each key record in a single two-slot file, and the generation of the next key pair has been moved out of the handshake.
 
 \textbf{Design choices against the closest prior art.} The KEM-based, signature-free method of Fraile et al.~\cite{fraile2025reinventing,pocero} would save the ML-DSA-44 sign/verify cost ($\approx0.223$~ms and $0.060$~ms), which is small against the end-to-end handshake time, while it is precisely the detached signature that gives formally verified KCI resistance independent of the KEM static key (R\ref{req:kci}). It would also break the explicit-authentication symmetry of Section~\ref{sec:symmetry}, since a KEM authenticates only the decapsulator. Shin et al.'s Hybrid-EDHOC~\cite{SIK+25} omits Message~4 to save payload, yet Message~4 is the smallest message ($1{,}232$~B, one EAP fragment; Figure~\ref{fig:communication_breakdown_methods}) and carries the Responder's half of the symmetric key rotation that yields post-compromise security (R\ref{req:pcs}). Omitting it would barely reduce fragmentation, since \texttt{Message2} and \texttt{Message3} dominate the $12{,}228$~B, but would lose a property that T0--T3 lack entirely.
 
 \textbf{Mitigating fragmentation.} Three mitigations require no protocol change: (i) raising the EAP fragment size and RADIUS attribute budget beyond the RFC~3579 253-byte default where the operator controls both endpoints; (ii) raising the path MTU on the SMF--UPF--DN-AAA segment, which never crosses the public Internet; and (iii) adopting more compact PQC parameter sets or signatures as they mature, which would shrink \texttt{Message2} and \texttt{Message3}. None of these affect the authentication logic verified in Section~\ref{sec:formalverif}.
 
-\textbf{Threats to validity.} (1) All components share one VM over loopback, so the network figures are a lower bound; a smaller path MTU or a higher RTT in a distributed deployment makes fragmentation more pronounced, which Table~\ref{tab:rtt-projection} quantifies under a linear model that ignores queuing and congestion. (2) Loss is emulated at the application layer rather than with \texttt{netem}, so the relative sensitivity of each method generalises better than the absolute milliseconds. (3) $100$ iterations and $120$ trials per cell separate methods that differ by an order of magnitude but are modest for tail estimates among methods 0--3, whose differences are tens of microseconds (Table~\ref{tab:primitive}). A pooled $10{,}000$-handshake run per method narrows their median confidence intervals to about $\pm5$~\textmu s, but the spread between the fastest and slowest of them is only $18$~\textmu s and their ranking does not follow their compute cost, so we do not rank methods 0--3 against each other. (4) The formal analysis is symbolic, and the quantum adversary is captured by a discrete-log oracle rather than a computational model; a computational proof is future work. (5) Trust in the AAA$\to$AS DSRK channel is a co-location/mTLS assumption analogous to ERP~\cite{RFC6696}, outside the ProVerif model. (6) Forward secrecy now rests on the rotation completing and on the erasure of the old secret keys. If \texttt{Message4} is lost, the UE keeps its old key while the DN-AAA has rotated; keeping the old key for recovery delays forward secrecy for that run, whereas discarding it requires re-provisioning. The models abstract a completed rotation and do not cover this recovery path. Likewise, if the \emph{current} one-time keys of both parties leak before a run, a passive adversary can read that run, since no ephemeral secret remains; security returns from the next run because the rotated secret keys never leave the devices. (7) Re-authentication and handover, including the fate of DSRK/OSCORE state at the AS, are not evaluated.
+\textbf{Threats to validity.} (1) All components share one VM over loopback, so the network figures are a lower bound; a smaller path MTU or a higher RTT in a distributed deployment makes fragmentation more pronounced, which Table~\ref{tab:rtt-projection} quantifies under a linear model that ignores queuing and congestion. (2) Loss is emulated at the application layer rather than with \texttt{netem}, so the relative sensitivity of each method generalises better than the absolute milliseconds. (3) $200$ iterations and $120$ trials per cell separate methods that differ by an order of magnitude but are modest for tail estimates among methods 0--3, whose differences are tens of microseconds (Table~\ref{tab:primitive}). A pooled $10{,}000$-handshake run per method narrows their median confidence intervals to about $\pm5$~\textmu s, but the spread between the fastest and slowest of them is only $18$~\textmu s and their ranking does not follow their compute cost, so we do not rank methods 0--3 against each other. (4) The formal analysis is symbolic, and the quantum adversary is captured by a discrete-log oracle rather than a computational model; a computational proof is future work. (5) Trust in the AAA$\to$AS DSRK channel is a co-location/mTLS assumption analogous to ERP~\cite{RFC6696}, outside the ProVerif model. (6) Forward secrecy now rests on the rotation completing and on the erasure of the old secret keys. If \texttt{Message4} is lost, the UE keeps its old key while the DN-AAA has rotated; keeping the old key for recovery delays forward secrecy for that run, whereas discarding it requires re-provisioning. The models abstract a completed rotation and do not cover this recovery path. Likewise, if the \emph{current} one-time keys of both parties leak before a run, a passive adversary can read that run, since no ephemeral secret remains; security returns from the next run because the rotated secret keys never leave the devices. (7) Re-authentication and handover, including the fate of DSRK/OSCORE state at the AS, are not evaluated.
 
 %%%%%%%%%%%%%%%%%%%%%%%%%%%%%%%%%%%%%%%%%%
 \section{Conclusions}
 \label{sec:conclusion}
 We proposed and implemented a role-symmetric hybrid post-quantum EAP-EDHOC protocol for 5G secondary authentication. X-Wing (X25519 + ML-KEM-768) provides key agreement through exactly two opposite-direction encapsulations to one-time static keys, detached ML-DSA-44 signatures authenticate each party independently of its KEM key, and a two-sided rotation with key erasure provides both forward secrecy and post-compromise security without an ephemeral key pair. ProVerif verification across seven methods shows that only the proposal combines quantum resilience (R\ref{req:qr}), KCI resistance, forward secrecy, and post-compromise security; identity concealment (R\ref{req:idconceal}) holds except under compromise of the Responder's current one-time key before the run. The exported EMSK bootstraps OSCORE keys following RFC~5295 and RFC~8613, so the UE reaches an application server without further login.
 
-On Open5GS, UERANSIM, and FreeRADIUS, the handshake exchanges $12{,}228$~B, split evenly between the two directions, and completes in $5.570$~ms on average, faster than EAP-TLS Hybrid PQC ($9.319$~ms), including the durable storage of the rotated keys (one \texttt{fdatasync} per handshake on the DN-AAA). Its cost is asymmetric, concentrated in fragmentation rather than computation; fragmentation dominates under high packet loss. Future work will reduce this overhead through compact PQC parameter sets, EAP fragment-size and MTU tuning, evaluation under mobility and handover with EMSK re-bootstrapping, a computational security proof, and IANA registration of the OSCORE-bootstrap label. Quantum-resistant secondary authentication is thus deployable on existing 5G infrastructure, with security that is symmetric between the parties and a cost that lies in transport rather than cryptography.
+On Open5GS, UERANSIM, and FreeRADIUS, the handshake exchanges $12{,}228$~B, split evenly between the two directions, and completes in $6.116$~ms on average, faster than EAP-TLS Hybrid PQC ($10.321$~ms), including the durable storage of the rotated keys (one \texttt{fdatasync} per handshake on the DN-AAA). Its cost is asymmetric, concentrated in fragmentation rather than computation; fragmentation dominates under high packet loss. Future work will reduce this overhead through compact PQC parameter sets, EAP fragment-size and MTU tuning, evaluation under mobility and handover with EMSK re-bootstrapping, a computational security proof, and IANA registration of the OSCORE-bootstrap label. Quantum-resistant secondary authentication is thus deployable on existing 5G infrastructure, with security that is symmetric between the parties and a cost that lies in transport rather than cryptography.
 
 \vspace{6pt}
 
